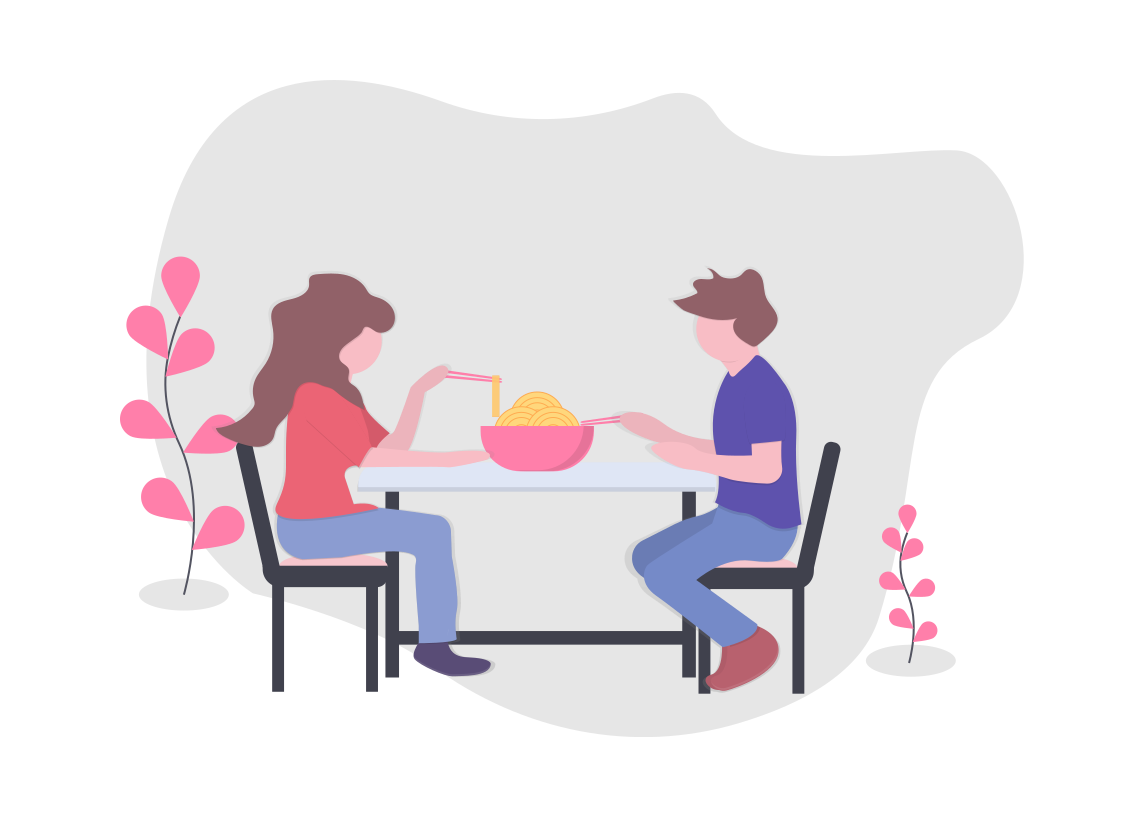
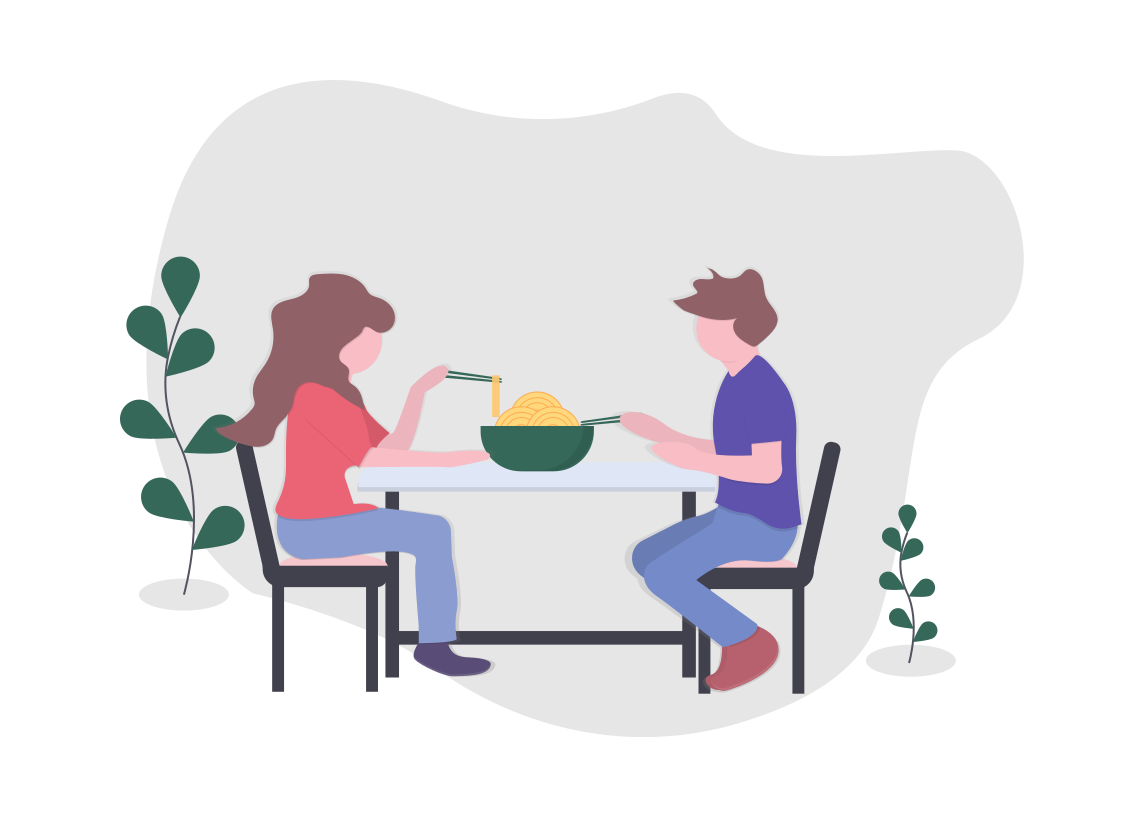
trying to debug

diff --git a/components/Log.js b/components/Log.js
@@ -80,31 +80,34 @@ const Log = (props) => {
   return(
     <ScrollView>
       {/*The X icon to clear the log*/}
-      <Card style={{marginTop:100, borderBottom:0}}>
-        <View style={{display:'flex', flexDirection:'row', padding:10, borderWidth: '1px', borderColor:'black'}}>
-          <Text style={{width:90, fontWeight:'bold'}}>Food</Text>
-          <Text style={{width:70, fontWeight:'bold'}}>Calories</Text>
-          <Text style={{width:70, fontWeight:'bold'}}>Carbs</Text>
-          <Text style={{width:70, fontWeight:'bold'}}>Protein</Text>
-          <Text style={{width:70, fontWeight:'bold'}}>Fat</Text>
+      <Card style={{marginTop:100, borderBottom:0, backgroundColor:'#FFFBE6', width: '95%', marginLeft:'auto', marginRight:'auto'}}>
+        <View style={{display:'flex', flexDirection:'row', padding:10, borderBottomWidth: '1px', borderColor:'black'}}>
+          <Text style={{width:90, fontWeight:'bold', color:'#37966F'}}>Food</Text>
+          <Text style={{width:70, fontWeight:'bold', color:'#FD5523'}}>Calories</Text>
+          <Text style={{width:70, fontWeight:'bold', color:'#FD5523'}}>Carbs</Text>
+          <Text style={{width:70, fontWeight:'bold', color:'#FD5523'}}>Protein</Text>
+          <Text style={{width:70, fontWeight:'bold', color:'#FD5523'}}>Fat</Text>
         </View>
 
-        {loggedFoods.map((food,i) => <View style={{display:'flex', flexDirection:'row', padding:10}} key={i}>
+        {loggedFoods ?
+loggedFoods.map((food,i) => <View style={{display:'flex', flexDirection:'row', padding:10, color:'white'}} key={i}>
             <Text style={{width:110}}>{food.label}</Text>
             <Text style={{width:70}}>{Math.round(food.calories)}</Text>
             <Text style={{width:70}}>{Math.round(food.carbs)}</Text>
             <Text style={{width:70}}>{Math.round(food.protein)}</Text>
             <Text style={{width:70}}>{Math.round(food.fat)}</Text>
-          </View>)}
+          </View>)
+: null
+}
 
-          <View style={{display:'flex', flexDirection:'row', padding:10, borderWidth: '1px', borderColor:'black'}}>
+          <View style={{display:'flex', flexDirection:'row', padding:10, borderTopWidth: '1px', borderColor:'black'}}>
             <Text style={{width:110, fontWeight:'bold'}}>Totals:</Text>
             <Text style={{width:70, fontWeight:'bold'}}>{Math.round(totalCalories)}</Text>
             <Text style={{width:70, fontWeight:'bold'}}>{Math.round(totalCarbs)} g</Text>
             <Text style={{width:70, fontWeight:'bold'}}>{Math.round(totalProtein)} g</Text>
             <Text style={{width:70, fontWeight:'bold'}}>{Math.round(totalFat)} g</Text>
           </View>
-          <Button onPress={clear} style={{width:200, marginLeft:'auto', marginRight:'auto', marginTop:30}}>Click here to clear log</Button>
+          <Button onPress={clear} style={{width:200, marginLeft:'auto', marginRight:'auto', marginTop:30, backgroundColor:'#FD5523', borderColor:'#FD5523'}}>Click here to clear log</Button>
         </Card>
       </ScrollView>
     )

diff --git a/App.js b/App.js
@@ -1,5 +1,5 @@
 import React, { useState, useEffect} from 'react';
-import { StyleSheet, Button, TextInput, Text, View, Image, ScrollView } from 'react-native';
+import { StyleSheet, Button, TextInput, Text, View, ImageBackground, ScrollView } from 'react-native';
 import axios from 'axios'
 import * as Font from 'expo-font';
 import Welcome from './components/Welcome'
@@ -14,27 +14,41 @@ import {createStackNavigator} from 'react-navigation-stack';
 
 import { createBottomTabNavigator } from 'react-navigation-tabs'
 
+import { Ionicons } from '@expo/vector-icons';
+
 const BottomNav = createAppContainer(createBottomTabNavigator({
-		Welcome: {screen: Welcome,
-			navigationOptions: ({ navigation }) => ({
-	          title: 'Welcome'
-	        })},
-		Search: {screen: Predicts},
-		Log: {screen: Log},
+	Welcome: {screen: Welcome,
+		navigationOptions: ({ navigation }) => ({
+			title: 'Welcome'
+		})
 	},
+
+	Search: {screen: Predicts,
+		navigationOptions: ({ navigation }) => ({
+			title: '',
+			tabBarIcon: ({ tintColor }) => (
+				<Ionicons name="md-camera" size={72} color={tintColor} style={{position:'absolute', marginBottom:10}} />
+			)
+		})
+	},
+
+	Log: {screen: Log},
+
+	},
+
 	{
-        initialRouteName: 'Welcome',
-        tabBarOptions: {
-          style: {
-           height: 55,
-           backgroundColor: '#232F34',
-				 },
-					activeTintColor: '#F9AA33'
-        }
-			}
-		))
-
-
+  	initialRouteName: 'Welcome',
+    tabBarOptions: {
+			showIcon: true,
+      style: {
+        height: 55,
+        backgroundColor: '#356859',
+			},
+			inactiveTintColor: '#FD5523',
+			activeTintColor: '#B9E4C9'
+      }
+		}
+	))
 
 const RoutedApp = createAppContainer(createStackNavigator({
 	Welcome: {screen: Welcome},
@@ -44,34 +58,23 @@ const RoutedApp = createAppContainer(createStackNavigator({
 
 export default class App extends React.Component {
 	render() {
+		state = {
+			active: false
+		}
+		
 		return(
 			<ApplicationProvider mapping={mapping} theme={lightTheme}>
-		    <BottomNav/>
+		    <BottomNav style={{zIndex:1000}}/>
 		  </ApplicationProvider>
 		)
 	}
 }
 
-
-
-
-// Old structure, prior to Navigator
-
-// const App = () => {
-//   return (
-// 	  <View style={styles.container}>
-// 			<Welcome />
-// 	  </View>
-//   )
-// }
-//
-// const styles = StyleSheet.create({
-//   container: {
-//     flex: 1,
-//     backgroundColor: '#D3F09C',
-//     alignItems: 'center',
-//     justifyContent: 'center',
-//   },
-// });
-//
-// export default App
+// Code for TabBarLabel (i.e. to change tab bar navigation font size)
+{/*
+	Welcome: {screen: Welcome,
+		navigationOptions: ({ navigation }) => ({
+			tabBarLabel: <Text style={{ fontSize: 18, fontWeight: 'bold' }}> Welcome </Text>
+		})
+	},
+*/}

diff --git a/components/Welcome.js b/components/Welcome.js
@@ -1,5 +1,5 @@
-import React, { useState, useEffect } from 'react';
-import { View, Image, Animated, TextInput, StyleSheet, StatusBar, Text } from 'react-native'
+import React from 'react';
+import { View, ImageBackground, Animated, TextInput, StyleSheet, StatusBar, Text } from 'react-native'
 import { AppLoading } from 'expo';
 import * as Font from 'expo-font';
 import { Ionicons } from '@expo/vector-icons';
@@ -13,7 +13,8 @@ class Welcome extends React.Component {
 
 	state={
 		isReady:null,
-		time:0
+		time:0,
+		pressed: false
 	}
 
 	async componentDidMount(){
@@ -40,6 +41,7 @@ class Welcome extends React.Component {
 	}
 
 	goToSearch = () => {
+		this.setState({pressed:true})
 		this.props.navigation.navigate('Search')
 	}
 
@@ -51,7 +53,18 @@ render() {
 	return(
 		<View style={styles.container}>
 			<StatusBar barStyle='dark-content'/>
-			<Text style={{fontFamily:'Pacifico', fontSize:60, marginTop:200, marginLeft:'auto', marginRight:'auto',marginBottom:40, color:"#344955"}}>Food Tracker</Text>
+				<View style={{marginTop:150}}>
+					<Text style={{fontFamily:'Pacifico', fontSize:60, marginLeft:'auto', marginRight:'auto',marginBottom:40, color:"#356859"}}>Calorie Cam</Text>
+					<ImageBackground tintColor="black" source={require("../assets/eating.png")} style={{height:300, marginTop:0, zIndex:-1000}}/>
+						<Button
+							style={{backgroundColor:'#FD5523', borderColor: '#FD5523', width:200, marginLeft:'auto', marginRight:'auto', marginTop : 50}}
+							onPress={this.goToSearch}
+							>
+							Log your first meal!
+						</Button>
+				</View>
+
+			{/*<Text style={{fontFamily:'Pacifico', fontSize:60, marginTop:200, marginLeft:'auto', marginRight:'auto',marginBottom:40, color:"#344955"}}>Food Tracker</Text>
 				<Image
 					style={styles.image}
 					source={require('../assets/beet.png')}
@@ -61,7 +74,7 @@ render() {
 				onPress={this.goToSearch}
 				>
 				Log your first meal!
-			</Button>
+			</Button>*/}
 		</View>
 	)}
 }
@@ -70,7 +83,7 @@ export default Welcome
 
 const styles = StyleSheet.create ({
 	container:{
-		backgroundColor: '#E6EED6',
+		backgroundColor: '#FFF',
 		height:900
 	},
 	image: {

diff --git a/components/Predicts.js b/components/Predicts.js
@@ -152,7 +152,7 @@ const Predicts = (props) => {
 
 	return(
 		<View style={styles.container}>
-      <Card>
+      <Card style={{backgroundColor:'#FFFBE6'}}>
 			  <StatusBar barStyle='dark-content'/>
 			  <Image style={styles.image} source={{ uri: imageToDisplay }} />
 			  <View style={styles.row}>
@@ -218,11 +218,11 @@ const Predicts = (props) => {
               <Text style={{width:70}}>{isNaN(fat) ? 'n/a' : Math.round(fat)*grams}</Text>
             </View>
 
-            <Button onPress={setAsync} style={{marginTop:50, width:300, marginLeft:12}}>Click here to log this item</Button>
+            <Button onPress={setAsync} style={styles.buttons}>Click here to log this item</Button>
 
             {show == true ? <View>
               <Text style={{marginTop:20, marginBottom:10, textAlign:'center', fontWeight:'bold'}}>Food logged successfully</Text>
-              <Button style={{width:300, marginLeft:12}} onPress={goToLog}>Click here to view log</Button>
+              <Button style={styles.buttons} onPress={goToLog}>Click here to view log</Button>
             </View> : null}
           </Card>
         </Modal>
@@ -234,10 +234,10 @@ const Predicts = (props) => {
 const styles = StyleSheet.create({
   text: { fontSize: 21 },
   row: { display:'flex', flexDirection:'row', marginTop:20, marginLeft:10 },
-  buttons: { margin:20},
-  image: { width: 300, height: 300, backgroundColor: 'gray', borderBottomLeftRadius: 5, borderBottomRightRadius: 5, borderTopLeftRadius: 5, borderTopRightRadius: 5 },
-  container: { flex: 1, alignItems: 'center', 		   justifyContent: 'center'},
-  card: { height: 640}
+  buttons: { margin:20, backgroundColor:'#FD5523', borderColor:'#FD5523'},
+  image: { width: 300, height: 300, backgroundColor: '#ECECEC', borderBottomLeftRadius: 5, borderBottomRightRadius: 5, borderTopLeftRadius: 5, borderTopRightRadius: 5 },
+  container: { flex: 1, alignItems: 'center', justifyContent: 'center'},
+  card: { height: 640, backgroundColor:'#FFFBE6' }
 });
 
 
